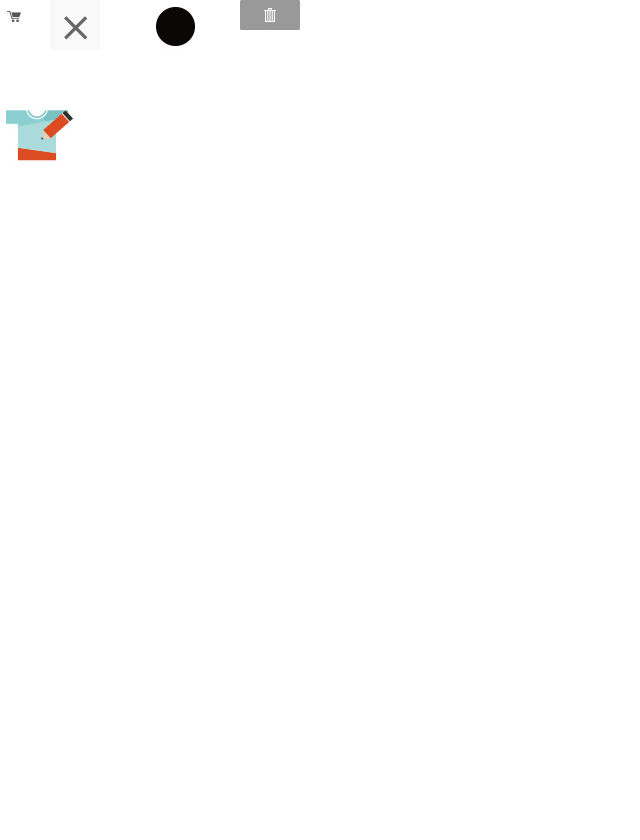
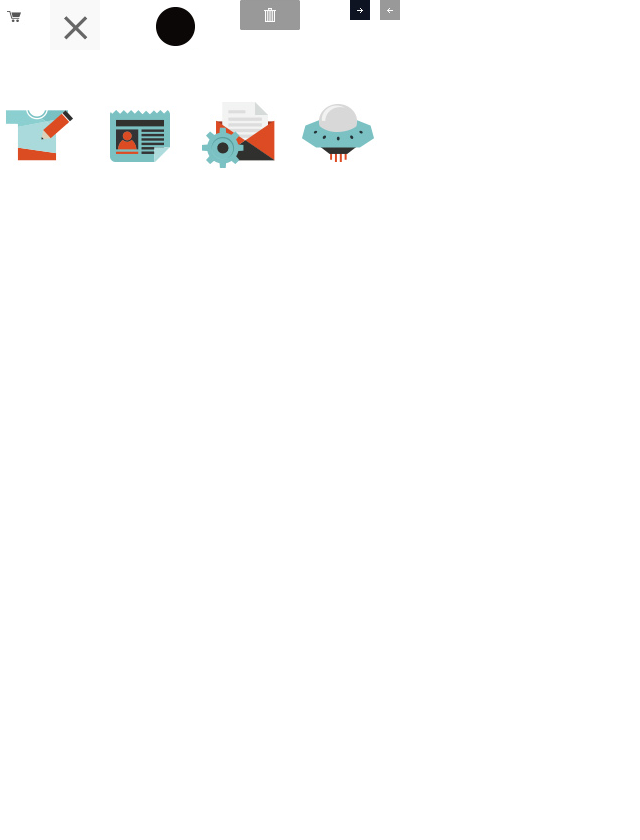
fx

diff --git a/html/theme/style.css b/html/theme/style.css
@@ -52,12 +52,67 @@ a:hover { color: #999; }
 .aboutwrap h1.about_hd { font-size: 40px; margin-top: 0; }
 .aboutwrap .about_bd { line-height: 23px; margin-top: 10px; }
 
-.dialog { position: absolute; top: 0; left: 0; background: #f9f9f9; margin: 0 auto;  }
-.dialog_close { background: url(images/site.png) no-repeat 0px -50px; width: 50px; height: 50px; }
+.dialog { position: absolute; top: 0; left: 0; overflow: hidden; background: #f9f9f9; margin: 0 auto;  }
+.dialog_close { background:url(images/site.png) -50px 0px; width: 50px; height: 50px; display: block; cursor: pointer; position: absolute; right: 10px; top: 10px; }
 .dialog_cont { }
-.avatar_upload {}
-.avatar_upload .avatar_hd { margin:100px auto 0 auto; text-align:center; }
+
+.dlgform { padding-top: 100px; margin: 0 auto; }
+.dlgform_hd {  text-align:center; padding-bottom:17px; border-bottom: 1px dotted #141122; }
+.dlgform_hd .hd { font-size:30px; font-weight:bold; }
+.dlgform_hd .msg { line-height: 32px; font-size: 12px; }
+.dlgform_bd { border: 4px solid #151515; margin-top: 29px; }
+.dlgform_sub_hd b { font-size:19px; display: block; }
+.dlgform_sub_hd em { font-size:12px; line-height:22px;}
+.dlgform_sub_bd { text-align: center; }
+
+.btn_dlg_l { padding-left: 20px;background:#999; display: inline-block; }
+.btn_dlg_r { padding-right: 20px; display: inline-block; background:#0e1422; }
+
+.avatar_dialog { width: 1351px; height:668px;}
+.avatar_upload { width: 1136px; height: 557px; padding-top: 100px; margin: 0 auto; }
+.avatar_upload .avatar_hd {  text-align:center; padding-bottom:17px; border-bottom: 1px dotted #141122; }
 .avatar_upload .avatar_hd .hd { font-size:30px; font-weight:bold; }
+.avatar_upload .avatar_hd .msg { line-height: 32px; font-size: 12px; }
+.avatar_upload .avatar_bd { width: 100%; border: 4px solid #151515; margin-top: 29px; }
+.avatar_bd .upload { width: 386px; float: left; border-right: 1px solid #151515; margin: 48px 48px 52px 0; height: 220px;    }
+.avatar_bd .upload_hd { margin: 65px 0 0 0; text-align: center; }
+.avatar_bd .upload_hd b { font-size:19px; display: block; }
+.avatar_bd .upload_hd em { font-size:12px; line-height:22px;}
+.avatar_bd .actions { text-align: center; margin-top: 8px; }
+.avatar_bd .actions .btn { display: inline-block; }
+.avatar_bd .select_loc,.avatar_bd .select_album,.update_avatar.btn,.btn_dlg_l,.btn_dlg_r { position: relative; overflow: hidden; width: 80px; height: 35px; line-height: 35px; text-align: center; color:#fff; }
+.avatar_bd .select_loc .ico,.avatar_bd .select_album .ico,.update_avatar.btn .ico,.btn_dlg_l .ico,.btn_dlg_r .ico { position: absolute; width: 20px; height: 20px;display: block; top: 7px;  background:url(images/site.png) no-repeat -380px 0px;}
+.avatar_bd .select_loc .ico,.btn_dlg_l .ico { left: 4px;}
+.avatar_bd .select_album .ico,.update_avatar.btn .ico,.btn_dlg_r .ico { background-position: -350px 0px; right: 4px;}
+.avatar_bd .select_loc { padding-left: 20px; background:#999; }
+.avatar_bd .select_album { padding-right: 20px; }
+.avatar_bd .file { position: absolute; top: 0; left: 0; height: 100%; width:100%; opacity: 0; filter: alpha(opacity=0); }
+
+.avatar_preview { margin-top: 48px; text-align: center; }
+.avatar_preview div { margin-left: 27px; background:#c7c7c7; float: left; position: relative;  }
+.avatar_preview p { position: absolute; top: -8px; left: 0; width: 100%; margin-top: 50%; }
+.avatar_preview img { display: block; background:#c7c7c7; }
+.avatar_preview .size_xl { width: 220px; height: 220px; }
+.avatar_preview .size_xl p { top: -16px; }
+.avatar_preview .size_l { width: 160px; height: 160px; margin-top: 30px; }
+.avatar_preview .size_m { width: 60px; height: 60px;  margin-top: 80px; }
+.avatar_preview .size_s { width: 30px; height: 30px;margin-top: 95px; font-family: 宋体;font-size: 12px;}
+.avatar_preview .size_s p { top: -6px; }
+
+.avatar_ft { text-align: center; margin-top: 35px; }
+.update_avatar.btn { width: 120px; display: inline-block; cursor: pointer; }
+
+.img_upload_dialog { width:1336px; padding-bottom:88px; }
+.img_upload_wrap { width:1132px; margin: 0px auto; }
+.img_upload_bd { float: left;width: 45%; text-align: center; padding: 84px 0 54px 0; }
+.img_upload_bd .select_pic { margin-top: 14px; width:244px; position: relative; line-height: 35px; height: 35px; display: inline-block; }
+.img_upload_bd .file { width:100%; height: 100%; position: absolute; top: 0; left: 0; opacity: 0; filter: alpha(opacity=0); }
+.img_upload_bd .check_accept {  line-height:33px;  font-size: 12px; text-decoration: underline; }
+.img_upload_bd .actions {margin-top: 10px;}
+.img_upload_bd .actions .btn_dlg_l { padding-left: 10px;  }
+
+.img_list_bd { float: right;width: 45%; text-align: center; padding: 84px 0 54px 0; }
+.img_list_bd .actions {margin-top: 14px;}
 
 .footer { font-size: 14px; text-align: center; background: #f3f3f3; padding: 49px 0; }
 .footer .ftnav li { display: inline-block; padding: 0 10px; border-left: 1px solid #dadada; height: 20px; line-height: 20px; }
@@ -75,8 +130,11 @@ a:hover { color: #999; }
 
 .ucnav { margin:67px 0 96px 0; }
 .ucnav li {display: inline-block; width:120px; height:110px;margin: 0 64px;  }
-.ucnav li .ico{ display: inline-block; width:120px; height:110px; width:77px; height: 70px; text-align: center; }
+.ucnav li .ico{ display: inline-block; width:120px; height:110px; width:77px; height: 70px; text-align: center; background: url(images/site.png) no-repeat 0px -100px; }
 .ucnav li span{ display: block;  }
+.ucnav li .ico_manage { background-position: -100px -100px; }
+.ucnav li .ico_custom { background-position: -200px -100px; }
+.ucnav li .ico_signout { background-position: -300px -100px; }
 
 .ucsidebar { width: 300px; text-align: center; float: left; }
 .ucsidebar .ico {  width:77px; height: 70px; background: #fff url(images/site.png) no-repeat 0px -100px; display: block; margin: 0 auto; }
@@ -105,3 +163,26 @@ a:hover { color: #999; }
 .listbox ul li.line { float: none; clear: both; height: 0px; width: 100%; border-bottom: 1px dotted #101322; margin: 0; padding: 0; }
 .listbox ul li p { margin: 0 auto; width:155px; font-size: 12px; text-align: center; line-height:18px; }
 .listbox ul li .img { width: 66px; height: 98px; border: 1px solid #5a5a5c; margin: 0 auto 5px auto; }
+
+
+.prodwrap { margin-top: 67px; padding-top: 1px; width: 900px; }
+.prod_preview { margin-top:56px; margin-right: 125px; width:410px; height: 410px; float: left; background:#ddd; }
+.prod_main_info { margin-top:56px; overflow: hidden; }
+.prod_main_info .priceinfo { margin-left: -5px; }
+.prod_main_info .saleprice { font-size: 33px; color:#e3620e; }
+.prod_main_info .origprice { font-size: 15px; margin-left: 6px; }
+.prod_main_info .ico_sale { font-size: 12px; background:#e4640b; color:#fff; padding: 0 5px; margin-left: 6px; }
+.prod_main_info h1 { font-size:16px; font-weight: bold; margin-top:19px; }
+.prod_main_info .character { margin-top:33px; font-size: 19px; }
+.prod_main_info .character .text { border-bottom: 1px solid #868686; padding-bottom: 10px; }
+.prod_main_info .character .pic { height: 26px; }
+
+.prod_selector { margin-top: 28px; font-size: 12px; }
+.prod_selector li {height: 33px; line-height: 33px; }
+
+.prod_main_info .img_smallist{ margin-top: 13px; }
+.prod_main_info .img_smallist li { height: 50px; width: 50px; background:#ddd; }
+
+.prod_main_info .actions { margin-top: 25px; }
+.prod_main_info .actions .btn_dlg_l,.prod_main_info .actions .btn_dlg_r { width: 120px; }
+

diff --git a/html/product.html b/html/product.html
@@ -1,0 +1,90 @@
+<!DOCTYPE html>
+<html>
+<head>
+    <title></title>
+    <link href="theme/style.css" rel="Stylesheet" />
+    <!--[if lt IE 9]><link href="theme/ie.css" rel="Stylesheet" /><![endif]-->
+</head>
+<body>
+    <div class="header clearfix png">
+        <div class="logowrap"><a href="/"><img class="logo" src="theme/images/logo.png" /></a></div>
+        <div class="navwrap">
+            <div class="navtop"><span class="">HI 猪头</span> / <a class="ico_cart"><i class="ico"></i>购物车</a></div>
+            <div class="nav">
+                <ul>
+                    <li><a href="/">首页</a></li>
+                    <li><a href="">创作</a></li>
+                    <li><a href="">生态环境</a></li>
+                    <li><a href="">画廊</a></li>
+                    <li class="last"><a href="">下载应用</a></li>
+                </ul>
+            </div>
+        </div>
+    </div>
+    <div class="main prodwrap clearfix">
+        <div class="prod_preview"></div>
+        <div class="prod_main_info">
+            <div class="priceinfo"><span class="saleprice">￥100</span><del class="origprice">￥200</del><i class="ico_sale">促销</i></div>
+            <h1>商品名商品名商品名</h1>
+            <div class="character">
+                <div class="text">T-SHIRT可与皮肤直接接触</div>
+                <div class="pic"></div>
+            </div>
+            <ul class="prod_selector">
+                <li><span>数量</span></li>
+                <li><span>颜色</span></li>
+                <li><span>尺码</span></li>
+            </ul>
+            <ul class="img_smallist clearfix">
+                <li><img /></li>
+            </ul>
+            <div class="actions">
+                <div class="btn_dlg_l"><i class="ico"></i>重新创作</div>
+                <div class="btn_dlg_r"><i class="ico"></i>加入购物车</div>
+            </div>
+        </div>
+    </div>
+    <div class="main prodwrap">
+        <div class="bigtitle">
+            <div class="cn">产品详情</div>
+            <div class="en">PRODUCT DETAILS</div>
+        </div>
+        <div class="prod_details"></div>
+    </div>
+    <div class="main prodwrap">
+        <div class="bigtitle">
+            <div class="cn">你可能喜欢其他产品</div>
+            <div class="en">OTHER PRODUCTS YOU MIGHT LIKE</div>
+        </div>
+        <div class="other_list">
+            <ul class="clearfix">
+                <li><a href="">
+                    <p class="img"><img src="" /></p>
+                    <p class="name">名称</p>
+                </a></li>
+                <li><a href="">
+                    <p class="img"><img src="" /></p>
+                    <p class="name">名称</p>
+                </a></li>
+                <li><a href="">
+                    <p class="img"><img src="" /></p>
+                    <p class="name">名称</p>
+                </a></li>
+            </ul>
+        </div>
+    </div>
+    <div class="footer">
+        <div class="ftnav">
+            <ul>
+                <li><a href="/">关于速纺</a></li>
+                <li><a href="/">订单跟踪</a></li>
+                <li><a href="/">招聘</a></li>
+                <li><a href="/">通讯</a></li>
+                <li><a href="/">帮助</a></li>
+                <li class="last"><a href="/">联系我们</a></li>
+            </ul>
+        </div>
+        <div class="copyright">Copyright©INSTAFABRIC all rights reserved.</div>
+    </div>
+</body>
+</html>

diff --git a/html/upload_pic.html b/html/upload_pic.html
@@ -1,0 +1,48 @@
+<!DOCTYPE html>
+<html>
+<head>
+    <title></title>
+    <link href="theme/style.css" rel="Stylesheet" />
+    <!--[if lt IE 9]><link href="theme/ie.css" rel="Stylesheet" /><![endif]-->
+</head>
+<body>
+    <div class="dialog img_upload_dialog">
+        <div class="dialog_close"></div>
+        <div class="dialog_cont">
+            <div class="dlgform clearfix img_upload_wrap">
+                <div class="dlgform_hd">
+                    <div class="hd">添加图片</div>
+                    <div class="msg">请确认您所上传图像有使用权</div>
+                </div>
+                <div class="clearfix">
+                    <div class="dlgform_bd img_upload_bd">
+                        <div class="dlgform_con">
+                            <div class="dlgform_sub_hd"><b>上传</b> <em>你的图片</em> </div>
+                            <div class="dlgform_sub_bd">
+                                <form class="select_pic btn" enctype="multipart/form-data" action="/upload">
+                                <i class="ico"></i>选择您上传的图像
+                                <input class="file" type="file" name="" />
+                                </form>
+                                <div class="check_accept">
+                                    <input type="checkbox" value="1" />
+                                    我已具有这些图片的使用权</div>
+                            </div>
+                            <div class="actions">
+                                <div class="btn_dlg_l"><i class="ico"></i>确定</div>
+                            </div>
+                        </div>
+                    </div>
+                    <div class="dlgform_bd img_list_bd">
+                        <div class="dlgform_sub_hd"><b>画廊内所有图片</b></div>
+                        <div class="actions">
+                            <div class="btn_dlg_l"><i class="ico"></i>取消</div>
+                            <div class="btn_dlg_r"><i class="ico"></i>确定</div>
+                        </div>
+                    </div>
+                </div>
+            </div>
+        </div>
+    </div>
+    </div>
+</body>
+</html>

diff --git a/html/add_avatar.html b/html/add_avatar.html
@@ -1,0 +1,40 @@
+<!DOCTYPE html>
+<html>
+<head>
+    <title></title>
+    <link href="theme/style.css" rel="Stylesheet" />
+    <!--[if lt IE 9]><link href="theme/ie.css" rel="Stylesheet" /><![endif]-->
+</head>
+<body>
+    <div class="dialog avatar_dialog">
+        <div class="dialog_close"></div>
+        <div class="dialog_cont">
+            <div class="avatar_upload clearfix">
+                <div class="avatar_hd">
+                    <div class="hd">上传头像</div>
+                    <div class="msg">支持JPG且图片小于5M</div>
+                </div>
+                <div class="avatar_bd clearfix">
+                    <div class="upload">
+                        <div class="upload_hd"><b>上传</b> <em>你的图片</em> </div>
+                        <div class="actions">
+                            <form class="select_loc btn" enctype="multipart/form-data" action="/upload"><i class="ico"></i>本 地
+                                <input class="file" type="file" name="" /></form>
+                            <div class="select_album btn"><i class="ico"></i>画 廊</div>
+                        </div>
+                    </div>
+                    <div class="avatar_preview">
+                        <div class="size_xl"><img alt="" /><p>选择您所期望<br>的方式上传头像</p></div>
+                        <div class="size_l"><img /><p>160X160</p></div>
+                        <div class="size_m"><img /><p>60X60</p></div>
+                        <div class="size_s"><img /><p>30X30</p></div>
+                    </div>
+                </div>
+                <div class="avatar_ft">
+                    <div class="update_avatar btn"><i class="ico"></i>更 新</div>
+                </div>
+            </div>
+        </div>
+    </div>
+</body>
+</html>

diff --git a/html/theme/ie.css b/html/theme/ie.css
@@ -1,2 +1,3 @@
 .clearfix { *zoom: 1; }
-.nav li,.footer .ftnav li,.ucnav li,.page_list .num_list li { *display: inline;*zoom: 1; }
+.nav li,.footer .ftnav li,.ucnav li,.page_list .num_list li,.avatar_bd .actions .btn,.btn,.btn_dlg_l,.btn_dlg_r { *display: inline;*zoom: 1; }
+.listbox ul li { *width: 24.9%;}
